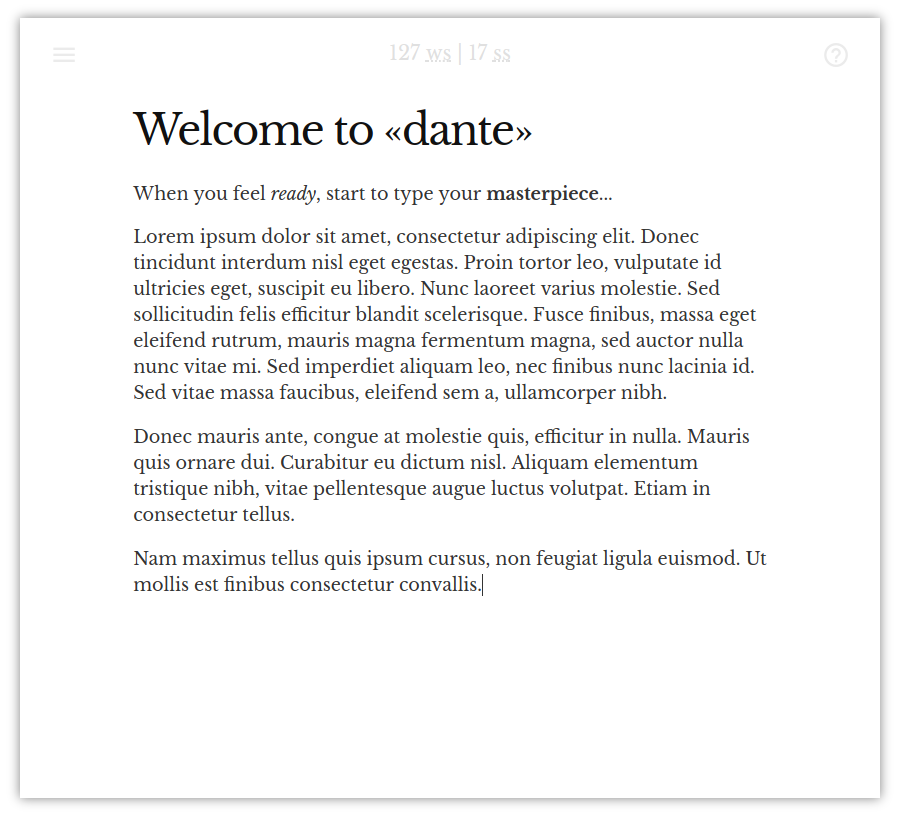
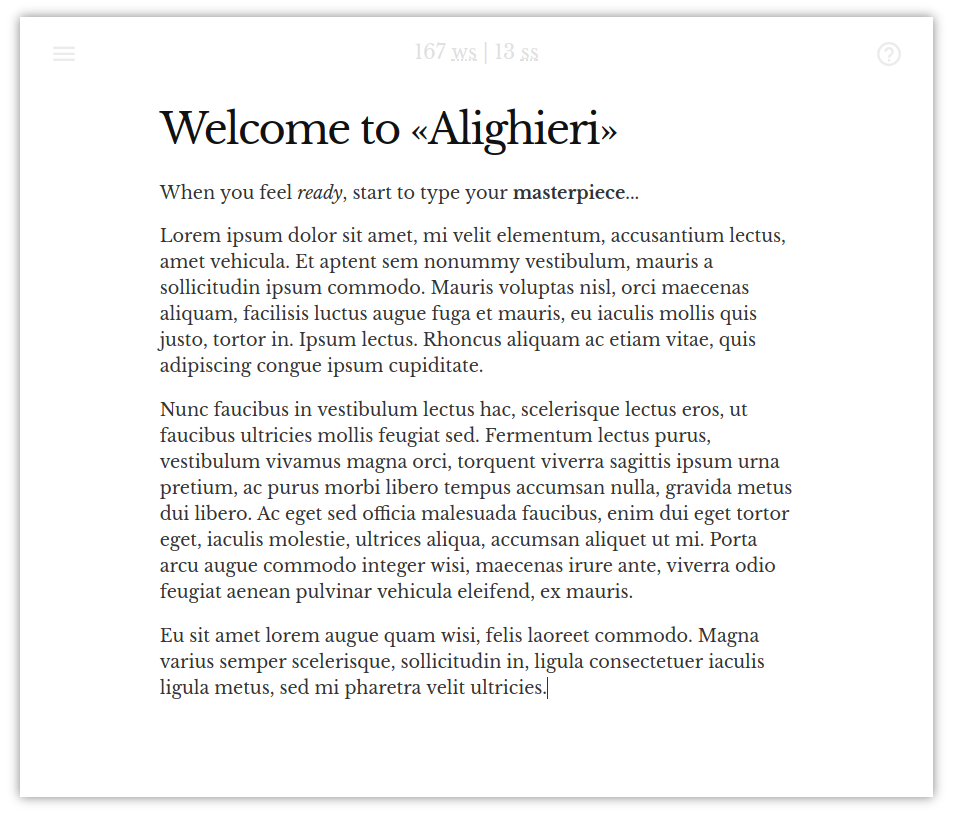
Rename project from 'dante' to 'Alighieri'

diff --git a/src/components/Writer.vue b/src/components/Writer.vue
@@ -1,14 +1,14 @@
 <template>
   <q-layout ref="layout" view="lHh LpR lFf">
     <toolbar
-      id="d-toolbar"
+      id="toolbar"
       slot="header"
       :wordCount="wordCount"
       :sentenceCount="sentenceCount"
     />
 
     <left-menu
-      id="d-left-menu"
+      id="left-menu"
       slot="left"
       @new="newFile()"
       @open="$refs.openFile.click()"
@@ -39,7 +39,7 @@
     >
 
     <vue-medium-editor
-      id="d-writer"
+      id="writer"
       custom-tag="div"
       :text="contentHTML"
       :options="options"
@@ -47,7 +47,7 @@
     />
 
     <export-modal
-      id="d-export-modal"
+      id="export-modal"
       ref="exportModal"
       @export="exportFile"
     />
@@ -77,9 +77,9 @@ import 'medium-editor/dist/css/themes/beagle.min.css'
 
 import 'assets/fonts/LibreBaskerville/stylesheet.css'
 
-const DANTE_CONTENT_BACKUP_KEY = 'dante-content-backup'
-const DANTE_CONTENT_LAST_SAVED_KEY = 'dante-content-last-saved'
-const DEFAULT_CONTENT_HTML = '<h1>Welcome to «dante»</h1><p>When you feel <i>ready</i>, start to type your <b>masterpiece</b>...</p>'
+const CONTENT_BACKUP_KEY = 'alighieri-content-backup'
+const CONTENT_LAST_SAVED_KEY = 'alighieri-content-last-saved'
+const DEFAULT_CONTENT_HTML = '<h1>Welcome to «Alighieri»</h1><p>When you feel <i>ready</i>, start to type your <b>masterpiece</b>...</p>'
 
 export default {
   name: 'writer',
@@ -146,7 +146,7 @@ export default {
     }
     this.$refs.layout.hideLeft()
     this.contentHTML = DEFAULT_CONTENT_HTML
-    document.querySelector('#d-writer').focus()
+    document.querySelector('#writer').focus()
   },
   destroyed () {
   },
@@ -169,12 +169,12 @@ export default {
         .trim()
     },
     resetContent () {
-      SessionStorage.set(DANTE_CONTENT_LAST_SAVED_KEY, null)
+      SessionStorage.set(CONTENT_LAST_SAVED_KEY, null)
       this.contentHTML = DEFAULT_CONTENT_HTML
       this.filename = null
     },
     checkContent (handlerFunc) {
-      if (this.contentHTML !== SessionStorage.get.item(DANTE_CONTENT_LAST_SAVED_KEY)) {
+      if (this.contentHTML !== SessionStorage.get.item(CONTENT_LAST_SAVED_KEY)) {
         Dialog.create({
           title: 'There are unsaved changes',
           message: 'Are you sure you want to discard them?',
@@ -204,7 +204,7 @@ export default {
             this.filename = f.name.split('.')[0]
             this.contentHTML = data
 
-            SessionStorage.set(DANTE_CONTENT_LAST_SAVED_KEY, this.contentHTML)
+            SessionStorage.set(CONTENT_LAST_SAVED_KEY, this.contentHTML)
           }
           catch (err) {
             reader.onerror(err)
@@ -264,7 +264,7 @@ export default {
           this.filename + '.html'
         )
 
-        SessionStorage.set(DANTE_CONTENT_LAST_SAVED_KEY, this.contentHTML)
+        SessionStorage.set(CONTENT_LAST_SAVED_KEY, this.contentHTML)
       }
       else {
         this.saveFileAs()
@@ -313,7 +313,7 @@ export default {
     },
     settings () {
       Dialog.create({
-        title: 'dante',
+        title: 'Alighieri',
         message: 'Settings',
         buttons: [
           'Cancel',
@@ -326,7 +326,7 @@ export default {
     },
     about () {
       Dialog.create({
-        title: 'dante',
+        title: 'Alighieri',
         message: 'About',
         buttons: [
           'Cancel',
@@ -339,7 +339,7 @@ export default {
     },
     exit () {
       this.checkContent(this.resetContent)
-      
+
       // TODO close window
     },
     updateContentAndStats () {
@@ -355,7 +355,7 @@ export default {
     processEditOperation (operation) {
       this.$nextTick(() => {
         this.contentHTML = operation.api.getFocusedElement().innerHTML
-        LocalStorage.set(DANTE_CONTENT_BACKUP_KEY, this.contentHTML)
+        LocalStorage.set(CONTENT_BACKUP_KEY, this.contentHTML)
       })
     }
   },
@@ -376,7 +376,7 @@ body
 .layout-header, .layout-aside
   box-shadow none !important
 
-#d-writer
+#writer
   display block
   box-sizing border-box
   min-width 256px
@@ -468,7 +468,7 @@ body
   .layout-header, .layout-aside
     display none
 
-  .layout-page-container, .layout-page, #d-writer
+  .layout-page-container, .layout-page, #writer
     display inline-block
     width 100% !important
     max-width 100% !important

diff --git a/src/components/Toolbar.vue b/src/components/Toolbar.vue
@@ -1,7 +1,7 @@
 <template>
   <q-toolbar color="white">
     <q-btn
-      id="d-logo"
+      id="logo"
       flat round
       color="grey-13"
       @click="$parent.toggleLeft()"
@@ -10,7 +10,7 @@
     </q-btn>
     <q-toolbar-title>{{ wordCount }} <abbr title="Words">ws</abbr> | {{ sentenceCount }} <abbr title="Sentences">ss</abbr></q-toolbar-title>
     <q-btn
-      id="d-help"
+      id="help"
       flat round
       color="grey-13"
     >
@@ -58,7 +58,7 @@ export default {
 </script>
 
 <style scoped lang="stylus">
-#d-logo, #d-help
+#logo, #help
   img, .q-icon
     height 2em
     opacity .3

diff --git a/src/index.html b/src/index.html
@@ -6,7 +6,7 @@
     <meta name="msapplication-tap-highlight" content="no">
     <meta name="viewport" content="user-scalable=no, initial-scale=1, maximum-scale=1, minimum-scale=1, width=device-width">
 
-    <title>dante</title>
+    <title>Alighieri</title>
 
     <link rel="icon" href="statics/icon.png" type="image/x-icon">
   </head>

diff --git a/README.md b/README.md
@@ -1,10 +1,10 @@
-![dante logo](https://rawgit.com/zuck/dante/master/art/logo.svg)
+![Alighieri logo](https://rawgit.com/zuck/alighieri/master/art/logo.svg)
 
-# dante
+# Alighieri
 
 > A distraction-free tool for novelists and writers
 
-![dante UX](https://raw.githubusercontent.com/zuck/dante/master/art/screenshot.png?raw=true)
+![Alighieri UX](https://raw.githubusercontent.com/zuck/alighieri/master/art/screenshot.png?raw=true)
 
 ## Build Setup
 
